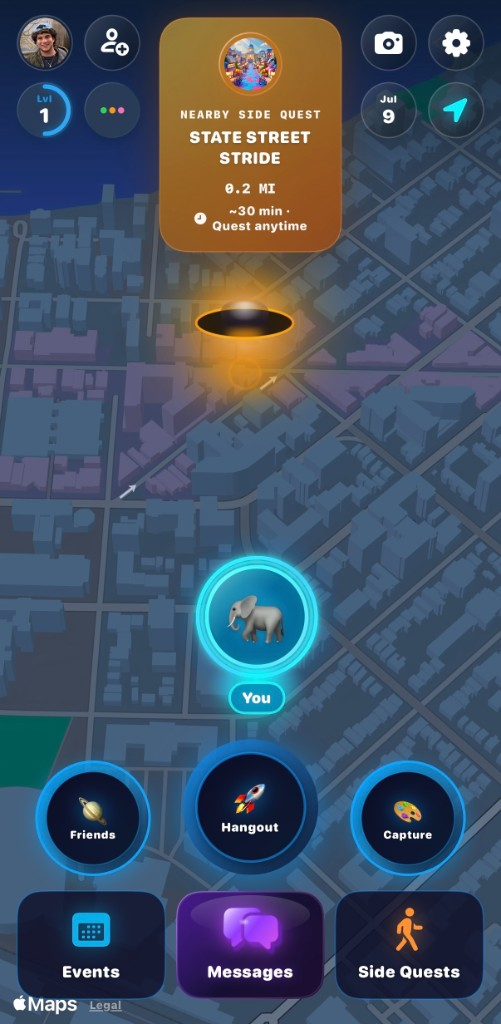
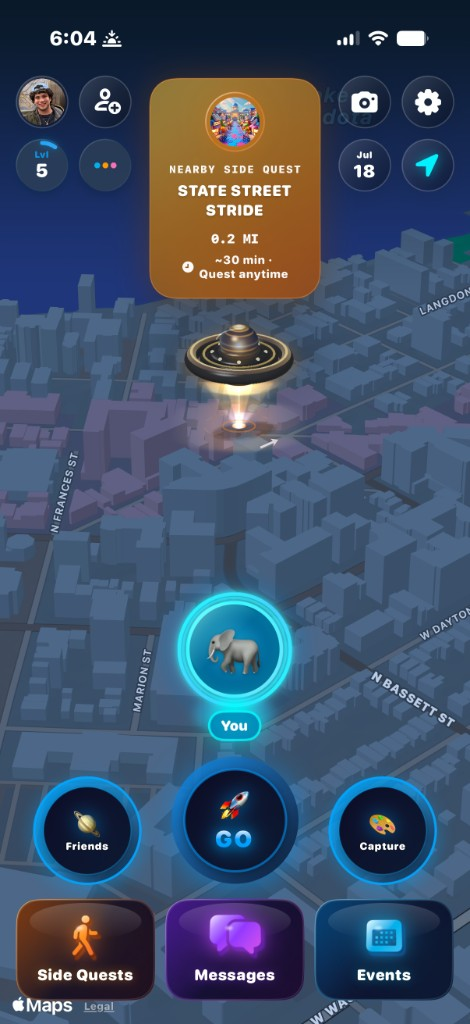
Give the Confucius quote its own hero block and refresh the BluWorld side-quest screenshot.

diff --git a/personal-site/components/Hero.tsx b/personal-site/components/Hero.tsx
@@ -64,9 +64,20 @@ export function Hero() {
           >
             {hero.supporting}
           </p>
+          <blockquote
+            className="hero-enter mt-6 max-w-md border-t border-line/60 pt-5 md:mt-8 md:pt-6"
+            style={{ animationDelay: "440ms" }}
+          >
+            <p className="font-display text-[0.95rem] italic leading-snug text-paper-soft md:text-lg md:leading-relaxed">
+              “{hero.quote}”
+            </p>
+            <cite className="mt-2 block text-xs not-italic tracking-wide text-mist md:text-sm">
+              — {hero.quoteAttribution}
+            </cite>
+          </blockquote>
           <div
             className="hero-enter mt-7 flex flex-wrap items-center gap-3 md:mt-10 md:gap-4"
-            style={{ animationDelay: "480ms" }}
+            style={{ animationDelay: "520ms" }}
           >
             <a
               href={site.x}

diff --git a/personal-site/content/story.ts b/personal-site/content/story.ts
@@ -18,7 +18,10 @@ export const hero = {
   name: "David Skadron",
   thesis: "When I notice problems, I actually look for solutions.",
   supporting:
-    "AI for veterinarians. A social network for real-life adventure. The man who says he can, and the man who says he cannot are both correct.",
+    "AI for veterinarians. A social network for real-life adventure.",
+  quote:
+    "The man who says he can, and the man who says he cannot are both correct.",
+  quoteAttribution: "Confucius",
   cta: "Work with me",
   portrait: "/images/hero/portrait.jpg",
 } as const;
@@ -56,7 +59,7 @@ export const bluworld = {
   screens: [
     {
       src: "/images/bluworld/sidequest.png",
-      alt: "BluWorld home with a nearby State Street side quest",
+      alt: "BluWorld map with a nearby State Street side quest",
       caption: "Side quests — cool things to do in any city",
     },
     {

diff --git a/personal-site/app/layout.tsx b/personal-site/app/layout.tsx
@@ -21,7 +21,7 @@ export const metadata: Metadata = {
   openGraph: {
     title: "David Skadron",
     description:
-      "AI for veterinarians. A social network for real-life adventure. The man who says he can, and the man who says he cannot are both correct.",
+      "AI for veterinarians. A social network for real-life adventure.",
     url: "https://www.davidskad.com",
     siteName: "David Skadron",
     type: "website",
@@ -31,7 +31,7 @@ export const metadata: Metadata = {
     card: "summary_large_image",
     title: "David Skadron",
     description:
-      "AI for veterinarians. A social network for real-life adventure. The man who says he can, and the man who says he cannot are both correct.",
+      "AI for veterinarians. A social network for real-life adventure.",
     creator: "@DavidSkadron",
   },
 };
